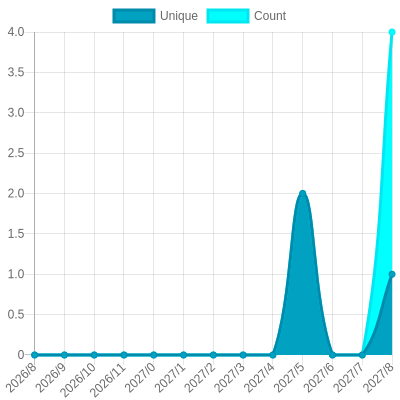
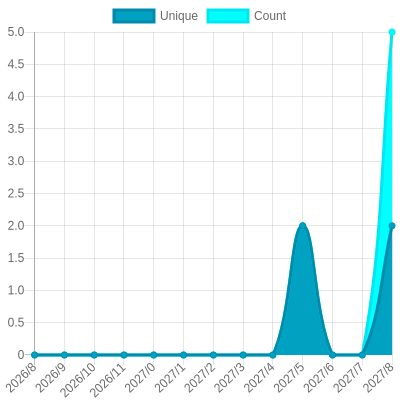
Update views

diff --git a/readme/945964477/year.md b/readme/945964477/year.md
@@ -23,10 +23,10 @@
 			<code>2026/9/1</code>
 		</td>
 		<td>
-			<code>1</code>
+			<code>2</code>
 		</td>
 		<td>
-			<code>4</code>
+			<code>5</code>
 		</td>
 	</tr>
 	<tr>
@@ -164,7 +164,7 @@
 </table>
 
 </details>
-<small><i>Last updated on 2026/9/23 3:58 AM UTC</i></small>
+<small><i>Last updated on 2026/9/23 11:04 AM UTC</i></small>
 
 ## ✂Copy and 📋 Paste
 ### SVG Badge

diff --git a/README.md b/README.md
@@ -149,7 +149,7 @@ The project created and maintained by [gayanvoice](https://github.com/gayanvoice
 	</tr>
 </table>
 
-<small><i>Last updated on 2026/9/23 3:58 AM UTC</i></small>
+<small><i>Last updated on 2026/9/23 11:04 AM UTC</i></small>
 
 ## ✂Copy and 📋 Paste
 ### Total Views Badge

diff --git a/readme/1019566027/year.md b/readme/1019566027/year.md
@@ -164,7 +164,7 @@
 </table>
 
 </details>
-<small><i>Last updated on 2026/9/23 3:58 AM UTC</i></small>
+<small><i>Last updated on 2026/9/23 11:03 AM UTC</i></small>
 
 ## ✂Copy and 📋 Paste
 ### SVG Badge

diff --git a/readme/1019745206/year.md b/readme/1019745206/year.md
@@ -164,7 +164,7 @@
 </table>
 
 </details>
-<small><i>Last updated on 2026/9/23 3:58 AM UTC</i></small>
+<small><i>Last updated on 2026/9/23 11:04 AM UTC</i></small>
 
 ## ✂Copy and 📋 Paste
 ### SVG Badge

diff --git a/readme/1270148328/year.md b/readme/1270148328/year.md
@@ -164,7 +164,7 @@
 </table>
 
 </details>
-<small><i>Last updated on 2026/9/23 3:58 AM UTC</i></small>
+<small><i>Last updated on 2026/9/23 11:04 AM UTC</i></small>
 
 ## ✂Copy and 📋 Paste
 ### SVG Badge

diff --git a/readme/1284984272/year.md b/readme/1284984272/year.md
@@ -164,7 +164,7 @@
 </table>
 
 </details>
-<small><i>Last updated on 2026/9/23 3:58 AM UTC</i></small>
+<small><i>Last updated on 2026/9/23 11:04 AM UTC</i></small>
 
 ## ✂Copy and 📋 Paste
 ### SVG Badge

diff --git a/readme/1310335924/year.md b/readme/1310335924/year.md
@@ -164,7 +164,7 @@
 </table>
 
 </details>
-<small><i>Last updated on 2026/9/23 3:58 AM UTC</i></small>
+<small><i>Last updated on 2026/9/23 11:04 AM UTC</i></small>
 
 ## ✂Copy and 📋 Paste
 ### SVG Badge

diff --git a/readme/877737208/year.md b/readme/877737208/year.md
@@ -164,7 +164,7 @@
 </table>
 
 </details>
-<small><i>Last updated on 2026/9/23 3:58 AM UTC</i></small>
+<small><i>Last updated on 2026/9/23 11:04 AM UTC</i></small>
 
 ## ✂Copy and 📋 Paste
 ### SVG Badge

diff --git a/readme/992194885/year.md b/readme/992194885/year.md
@@ -164,7 +164,7 @@
 </table>
 
 </details>
-<small><i>Last updated on 2026/9/23 3:58 AM UTC</i></small>
+<small><i>Last updated on 2026/9/23 11:04 AM UTC</i></small>
 
 ## ✂Copy and 📋 Paste
 ### SVG Badge
